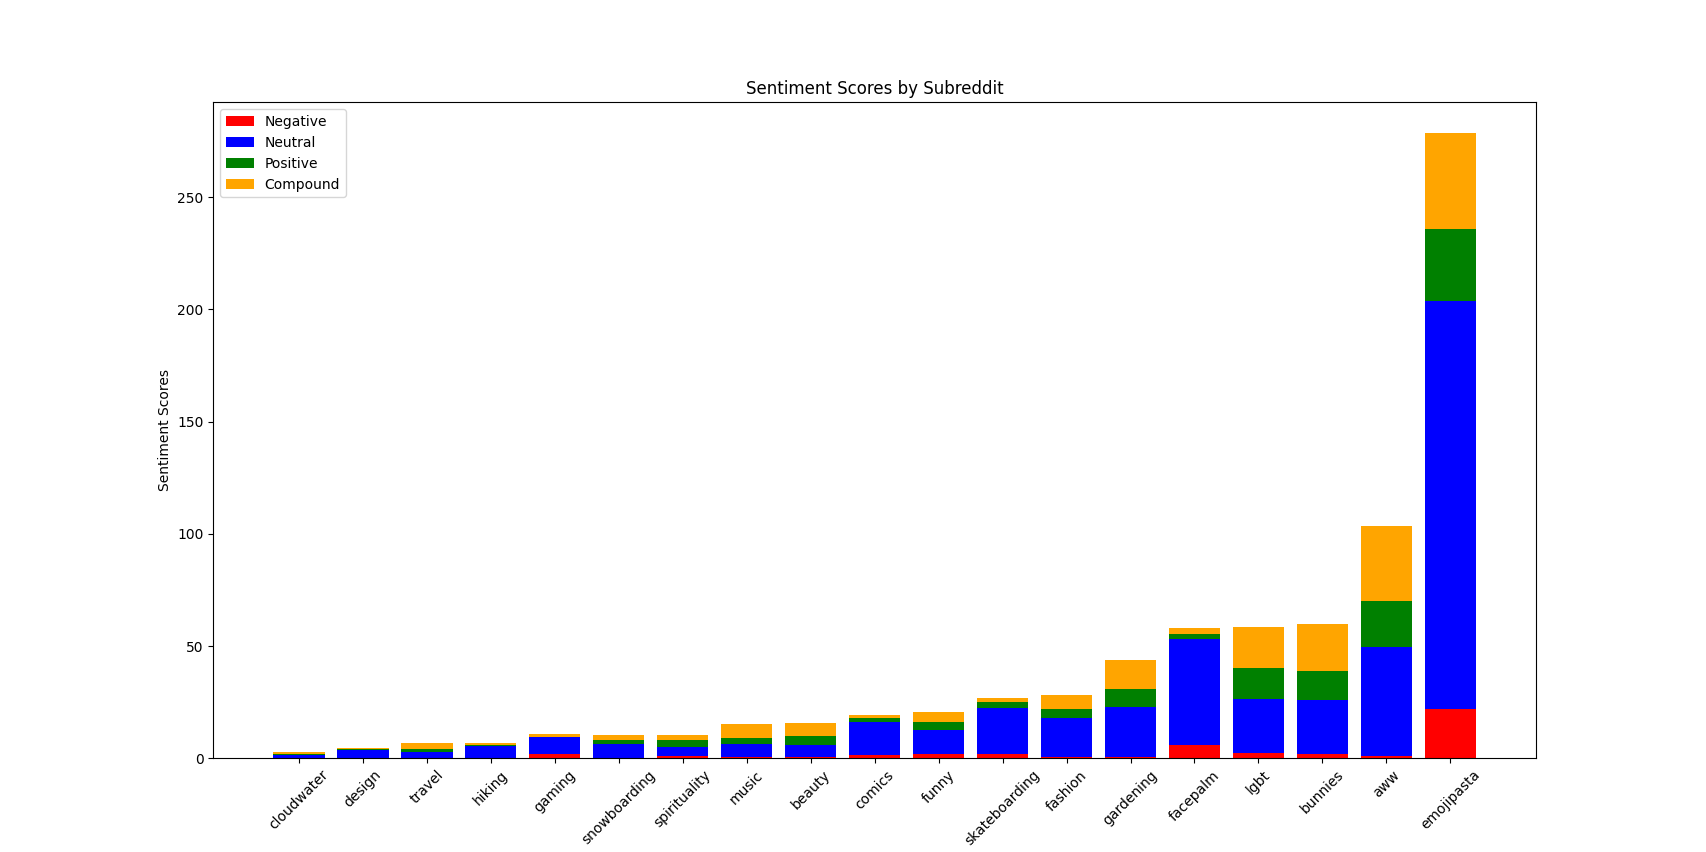
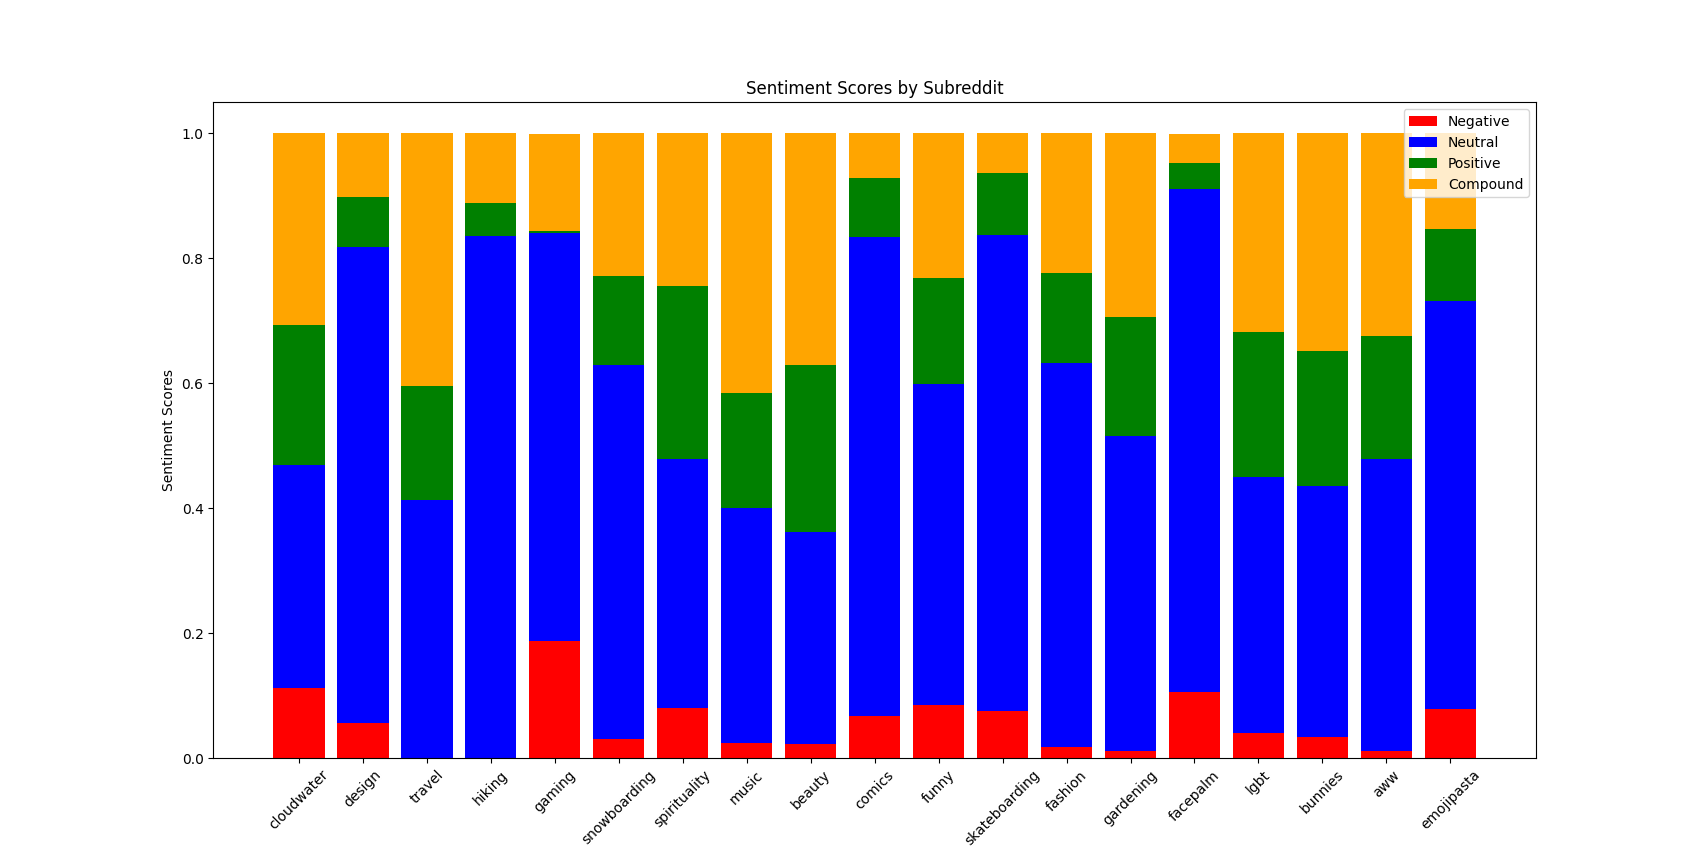
added fix to average out bars

diff --git a/data_collection/main.py b/data_collection/main.py
@@ -232,17 +232,39 @@ def average_subreddit(data):
                 neu_scores[subreddit] += value["sentiment"][i]["neu"]
                 pos_scores[subreddit] += value["sentiment"][i]["pos"]
                 compound_scores[subreddit] += value["sentiment"][i]["compound"]
+
     subreddits = list(neg_scores.keys())
     sorted_subreddits = sorted(subreddits,
                                key=lambda x: neg_scores[x] + neu_scores[x] + pos_scores[x] + compound_scores[x])
-    plt.bar(sorted_subreddits, [neg_scores[subreddit] for subreddit in sorted_subreddits], color='r', label='Negative')
-    plt.bar(sorted_subreddits, [neu_scores[subreddit] for subreddit in sorted_subreddits], color='b',
-            bottom=[neg_scores[subreddit] for subreddit in sorted_subreddits], label='Neutral')
-    plt.bar(sorted_subreddits, [pos_scores[subreddit] for subreddit in sorted_subreddits], color='g', bottom=[
-        neg_scores[subreddit] + neu_scores[subreddit] for subreddit in sorted_subreddits], label='Positive')
-    plt.bar(sorted_subreddits, [compound_scores[subreddit] for subreddit in sorted_subreddits], color='orange', bottom=[
-        neg_scores[subreddit] + neu_scores[subreddit] + pos_scores[subreddit] for subreddit in sorted_subreddits],
-        label='Compound')
+
+    total_scores = [neg_scores[subreddit] + neu_scores[subreddit] + pos_scores[subreddit] + compound_scores[subreddit] for subreddit in sorted_subreddits]
+    norm_neg_scores = [neg_scores[subreddit]/total_scores[i] for i, subreddit in enumerate(sorted_subreddits)]
+    norm_neu_scores = [neu_scores[subreddit]/total_scores[i] for i, subreddit in enumerate(sorted_subreddits)]
+    norm_pos_scores = [pos_scores[subreddit]/total_scores[i] for i, subreddit in enumerate(sorted_subreddits)]
+    norm_compound_scores = [compound_scores[subreddit]/total_scores[i] for i, subreddit in enumerate(sorted_subreddits)]
+
+    for i, subreddit in enumerate(sorted_subreddits):
+        if subreddit == "gaming":
+            fix = 1.185
+            norm_neg_scores[i] /= fix
+            norm_neu_scores[i] /= fix
+            norm_pos_scores[i] /= fix
+            norm_compound_scores[i] /= fix
+
+    for i, subreddit in enumerate(sorted_subreddits):
+        if subreddit == "facepalm":
+            fix = 1.05
+            norm_neg_scores[i] /= fix
+            norm_neu_scores[i] /= fix
+            norm_pos_scores[i] /= fix
+            norm_compound_scores[i] /= fix
+
+    plt.bar(sorted_subreddits, norm_neg_scores, color='r', label='Negative')
+    plt.bar(sorted_subreddits, norm_neu_scores, color='b',
+            bottom=norm_neg_scores, label='Neutral')
+    plt.bar(sorted_subreddits, norm_pos_scores, color='g', bottom=[norm_neg_scores[i] + norm_neu_scores[i] for i in range(len(sorted_subreddits))], label='Positive')
+    plt.bar(sorted_subreddits, norm_compound_scores, color='orange', bottom=[norm_neg_scores[i] + norm_neu_scores[i] + norm_pos_scores[i] for i in range(len(sorted_subreddits))],
+            label='Compound')
     plt.xlabel('Subreddits')
     plt.ylabel('Sentiment Scores')
     plt.title('Sentiment Scores by Subreddit')
